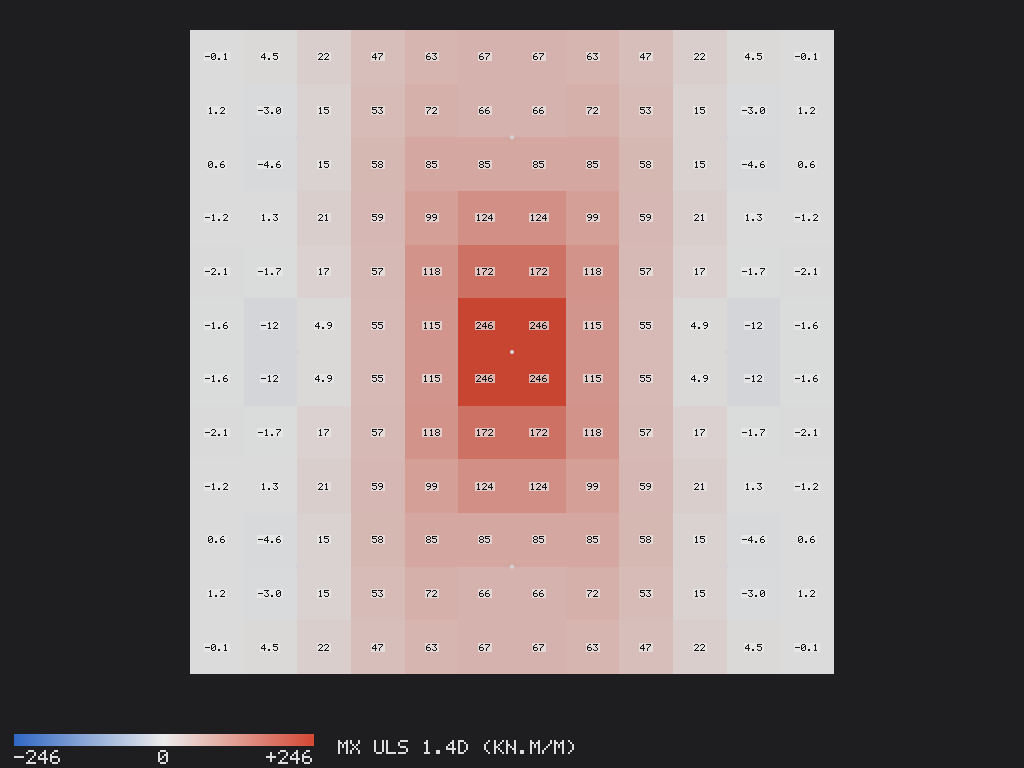
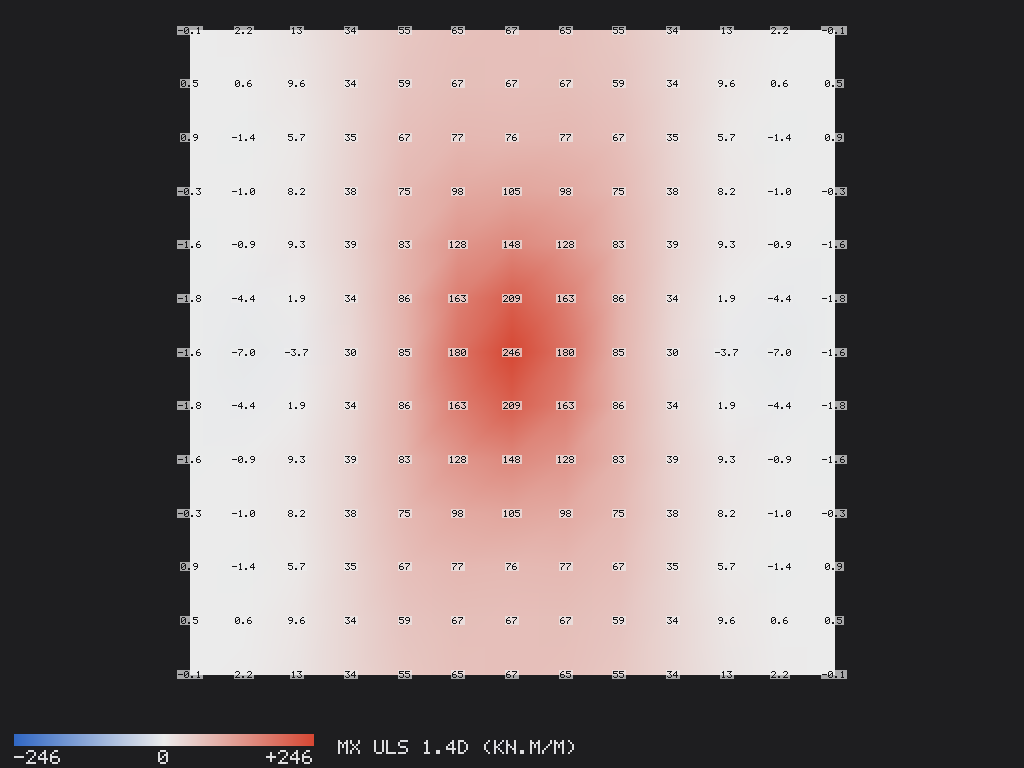
Plate results shaded between nodal values: each node the mean of its elements, Gouraud-shaded elements in the app view and the agent's pictures, values written at the nodes; the design keeps the element values

diff --git a/core/src/mcp.rs b/core/src/mcp.rs
@@ -60,7 +60,7 @@ fn tools() -> Vec<Value> {
     t.push(json!({"name": "import_file", "description": "Reads a structure from a file: format 'excel' (a Pondus workbook: replaces the model), 'dxf' (LINE, LWPOLYLINE and POLYLINE entities become members; a layer such as COLUMN_400x400, BEAM_300x600 or H300x150x6p5x9 gives kind and section, others take default_section; units from $INSUNITS or scale, e.g. 0.001 for mm; a 2D drawing is placed by view 'plan' with z or 'elevation_xz' with y; closed rectangles on SLAB layers become slabs) or 'ifc' (IFC2x3 / IFC4 from Revit or Aedifex: IfcColumn, IfcBeam, IfcMember and IfcSlab with extruded bodies, or the analytical IfcStructuralCurveMember; profiles to sections; GlobalId kept as bim_id; snap (default 0.75 m) moves member ends onto the axes they meet and beams onto their levels, 0 keeps the axes as drawn). replace true starts from an empty model (default for excel), otherwise the members merge into the current model. Supports and loads are not in DXF or IFC: add them after.", "inputSchema": {"type": "object", "properties": {"format": {"type": "string", "enum": ["excel", "dxf", "ifc"]}, "path": {"type": "string"}, "replace": {"type": "boolean"}, "scale": {"type": "number"}, "view": {"type": "string", "enum": ["3d", "plan", "elevation_xz", "elevation_yz"]}, "x": {"type": "number"}, "y": {"type": "number"}, "z": {"type": "number"}, "default_section": {"type": "string"}, "snap": {"type": "number"}}, "required": ["format", "path"]}}));
     t.push(json!({"name": "get_slab_results", "description": "The slabs' plate results (plate method: set_design slab_method 'plate' first) for a combination or case ('result', default the first ULS): per slab (all, or 'slabs') the largest positive and negative mx, my (kN·m/m, sagging +), mxy, qx, qy (kN/m) with where they occur, the Wood–Armer design moments (bottom and top, x and y) and the largest deflection; with elements true every element's centre and values.", "inputSchema": {"type": "object", "properties": {"result": {"type": "string"}, "slabs": {"type": "array", "items": {"type": "integer"}}, "elements": {"type": "boolean"}}}}));
     t.push(json!({"name": "design", "description": "Designs the structure: concrete beams (bars in thirds of the span, stirrups, deflection) and slabs (bars per direction) to ACI 318-19, steel members to AISC 360-16. resize: deepen failing concrete beams in 50 mm steps and thicken failing slabs; select: give every steel member (or group) the lightest passing H shape. Changed sections are analysed again until stable. Give 'members' / 'slabs' to design only those, or beams/slabs/steel false to skip a kind. slab_method chooses how slabs are analysed and designed (and stays set in the model).", "inputSchema": {"type": "object", "properties": {"members": {"type": "array", "items": {"type": "integer"}}, "slabs": {"type": "array", "items": {"type": "integer"}}, "beams": {"type": "boolean"}, "do_slabs": {"type": "boolean"}, "steel": {"type": "boolean"}, "resize": {"type": "boolean"}, "select": {"type": "boolean"}, "slab_method": {"type": "string", "enum": ["coefficients", "plate"], "description": "coefficients: ACI 318-63 Method 2 / ACI 6.5 with the load to the beams by the 45° lines; plate: the slabs meshed as plate (shell) elements analysed with the frame, bars from the element moments by Wood–Armer"}}}}));
-    t.push(json!({"name": "show_picture", "description": "Looks at the model: view '3d' (yaw/pitch degrees), 'plan' (z: one floor) or 'elevation' (y: one frame line); diagram none, moment (My), shear (Vz), axial, momentz (Mz), sheary (Vy), torsion, platemx / platemy / platemxy (slab plate moments) and plateqx / plateqy (slab shears), plate method, deflection, mode (a mode shape of the seismic analysis: mode 1, 2, ...) or utilisation (members and slabs coloured by their design ratio: green < 0.7, yellow < 0.9, orange < 1, red over); result: a combination or case name. The picture comes back to you and appears in the chat; give it a one-line caption.", "inputSchema": {"type": "object", "properties": {"view": {"type": "string", "enum": ["3d", "plan", "elevation"]}, "diagram": {"type": "string", "enum": ["none", "moment", "shear", "axial", "momentz", "sheary", "torsion", "platemx", "platemy", "platemxy", "plateqx", "plateqy", "deflection", "mode", "buckling", "utilisation"]}, "mode": {"type": "integer", "description": "with diagram 'mode' or 'buckling': which mode, 1 = the first"}, "result": {"type": "string"}, "z": {"type": "number"}, "y": {"type": "number"}, "yaw": {"type": "number"}, "pitch": {"type": "number"}, "highlight": {"type": "array", "items": {"type": "integer"}}, "caption": {"type": "string"}, "show_loads": {"type": "boolean"}, "values": {"type": "boolean", "description": "plate diagrams: write each element's value on it"}}}}));
+    t.push(json!({"name": "show_picture", "description": "Looks at the model: view '3d' (yaw/pitch degrees), 'plan' (z: one floor) or 'elevation' (y: one frame line); diagram none, moment (My), shear (Vz), axial, momentz (Mz), sheary (Vy), torsion, platemx / platemy / platemxy (slab plate moments) and plateqx / plateqy (slab shears), plate method, deflection, mode (a mode shape of the seismic analysis: mode 1, 2, ...) or utilisation (members and slabs coloured by their design ratio: green < 0.7, yellow < 0.9, orange < 1, red over); result: a combination or case name. The picture comes back to you and appears in the chat; give it a one-line caption.", "inputSchema": {"type": "object", "properties": {"view": {"type": "string", "enum": ["3d", "plan", "elevation"]}, "diagram": {"type": "string", "enum": ["none", "moment", "shear", "axial", "momentz", "sheary", "torsion", "platemx", "platemy", "platemxy", "plateqx", "plateqy", "deflection", "mode", "buckling", "utilisation"]}, "mode": {"type": "integer", "description": "with diagram 'mode' or 'buckling': which mode, 1 = the first"}, "result": {"type": "string"}, "z": {"type": "number"}, "y": {"type": "number"}, "yaw": {"type": "number"}, "pitch": {"type": "number"}, "highlight": {"type": "array", "items": {"type": "integer"}}, "caption": {"type": "string"}, "show_loads": {"type": "boolean"}, "values": {"type": "boolean", "description": "plate diagrams: write the nodal value at every node (the mean of the elements around it)"}}}}));
     t.push(json!({"name": "import_stabileo", "description": "Replaces the model with a Stabileo model (JSON file at 'path', or the object in 'model'), as Aedifex's export_stabileo writes it: collinear pieces of one beam are merged into one member, element bimId (or name) kept for export_bim.", "inputSchema": {"type": "object", "properties": {"path": {"type": "string"}, "model": {"type": "object"}}}}));
     t.push(json!({"name": "export_stabileo", "description": "Writes the model as a Stabileo model file (JSON) for the Stabileo editor.", "inputSchema": {"type": "object", "properties": {"path": {"type": "string"}}, "required": ["path"]}}));
     t.push(json!({"name": "export_bim", "description": "The design for the BIM model (designs first if needed): per member its bim_id, ends, the Aedifex family and type ('Concrete Rectangular Beam' / '300 x 600 mm', 'Steel I Beam (W)' / 'H 300x150x6.5x9') with the type parameters in m, the reinforcement and the ratio; per slab its thickness and bars. Returned as JSON and, with 'path', written to a file.", "inputSchema": {"type": "object", "properties": {"path": {"type": "string"}}}}));
@@ -558,7 +558,7 @@ impl Server {
                     lo = lo.min(v);
                     hi = hi.max(v);
                 }
-                scale = format!(" Colour scale of {label} in {}: symmetric, blue -{vmax:.1} to red +{vmax:.1} {units}; the values themselves run from {lo:.1} to {hi:.1} {units} (quote these, not the scale). values true writes each element's number.", r.name);
+                scale = format!(" Colour scale of {label} in {}: symmetric, blue -{vmax:.1} to red +{vmax:.1} {units}; the values themselves run from {lo:.1} to {hi:.1} {units} (quote these, not the scale). The picture shades the nodal values, each node the mean of the elements around it; values true writes them at the nodes. The design uses the element values.", r.name);
             }
         }
         self.pictures += 1;

diff --git a/core/src/scene.rs b/core/src/scene.rs
@@ -21,6 +21,30 @@ pub enum Prim {
     /// A value written at a point (the app draws it with its font, the agent's pictures with a
     /// bitmap font).
     Text { p: [f64; 3], text: String, color: Rgba },
+    /// A plate element with a colour at each corner, shaded between them (the nodal values of a
+    /// plate result, so the field reads as a smooth contour instead of one flat value per element).
+    Shaded { pts: [[f64; 3]; 4], colors: [Rgba; 4] },
+}
+
+/// The nodal values of a plate diagram: at every plate node the mean of the elements that share
+/// it (the usual stress recovery of a finite element post-processor). Keyed by the node's
+/// position to the mm. The element values themselves are what the design uses.
+pub fn plate_nodal(r: &CaseResult, diagram: Diagram, keep: impl Fn(&crate::slabfe::PlateResult) -> bool) -> std::collections::HashMap<(i64, i64, i64), f64> {
+    let mut sum: std::collections::HashMap<(i64, i64, i64), (f64, usize)> = std::collections::HashMap::new();
+    for p in r.plates.iter().filter(|p| keep(p)) {
+        let v = diagram.plate_value(p);
+        let (hx, hy) = (p.dx / 2.0, p.dy / 2.0);
+        for (x, y) in [(p.x - hx, p.y - hy), (p.x + hx, p.y - hy), (p.x + hx, p.y + hy), (p.x - hx, p.y + hy)] {
+            let e = sum.entry(key3(x, y, p.slab as f64)).or_insert((0.0, 0));
+            e.0 += v;
+            e.1 += 1;
+        }
+    }
+    sum.into_iter().map(|(k, (s, n))| (k, s / n as f64)).collect()
+}
+
+fn key3(x: f64, y: f64, s: f64) -> (i64, i64, i64) {
+    ((x * 1000.0).round() as i64, (y * 1000.0).round() as i64, s as i64)
 }
 
 #[derive(Clone, Copy, Debug, Default, PartialEq, Eq, Serialize, Deserialize)]
@@ -236,19 +260,26 @@ pub fn build(model: &Model, analysis: Option<&Analysis>, report: Option<&Report>
         }
     }
     let result = analysis.and_then(|a| pick_result(model, a, spec));
-    // slab plate results: each element coloured on the diverging scale, values if asked
+    // slab plate results: the nodal values (each node the mean of its elements) shaded across
+    // every element on the diverging scale, and written at the nodes if asked
     if let (Some(r), true) = (result.as_ref(), spec.diagram.is_plate()) {
         let vmax = plate_range(model, r, spec).max(1e-9);
-        for p in &r.plates {
+        let shown = |p: &crate::slabfe::PlateResult| model.slabs.iter().find(|s| s.id == p.slab).is_some_and(|s| !(spec.view == "plan" && spec.z.is_some_and(|z| (s.z - z).abs() > 0.05)));
+        let nodal = plate_nodal(r, spec.diagram, shown);
+        let mut written: std::collections::HashSet<(i64, i64, i64)> = std::collections::HashSet::new();
+        for p in r.plates.iter().filter(|p| shown(p)) {
             let Some(s) = model.slabs.iter().find(|s| s.id == p.slab) else { continue };
-            if spec.view == "plan" && spec.z.is_some_and(|z| (s.z - z).abs() > 0.05) {
-                continue;
-            }
-            let v = spec.diagram.plate_value(p);
             let (hx, hy) = (p.dx / 2.0, p.dy / 2.0);
-            out.push(Prim::Poly { pts: vec![[p.x - hx, p.y - hy, s.z], [p.x + hx, p.y - hy, s.z], [p.x + hx, p.y + hy, s.z], [p.x - hx, p.y + hy, s.z]], color: diverging(v / vmax) });
+            let corners = [[p.x - hx, p.y - hy, s.z], [p.x + hx, p.y - hy, s.z], [p.x + hx, p.y + hy, s.z], [p.x - hx, p.y + hy, s.z]];
+            let at = |c: &[f64; 3]| nodal.get(&key3(c[0], c[1], p.slab as f64)).copied().unwrap_or(spec.diagram.plate_value(p));
+            out.push(Prim::Shaded { pts: corners, colors: corners.map(|c| diverging(at(&c) / vmax)) });
             if spec.values {
-                out.push(Prim::Text { p: [p.x, p.y, s.z], text: if v.abs() >= 10.0 { format!("{v:.0}") } else { format!("{v:.1}") }, color: [20, 20, 22, 255] });
+                for c in &corners {
+                    if written.insert(key3(c[0], c[1], p.slab as f64)) {
+                        let v = at(c);
+                        out.push(Prim::Text { p: *c, text: if v.abs() >= 10.0 { format!("{v:.0}") } else { format!("{v:.1}") }, color: [20, 20, 22, 255] });
+                    }
+                }
             }
         }
     }
@@ -453,6 +484,7 @@ pub fn bounds(prims: &[Prim], cam: &Camera) -> Option<(f64, f64, f64, f64)> {
     let pts = prims.iter().flat_map(|p| match p {
         Prim::Line { a, b, .. } => vec![*a, *b],
         Prim::Poly { pts, .. } => pts.clone(),
+        Prim::Shaded { pts, .. } => pts.to_vec(),
         Prim::Dot { p, .. } | Prim::Text { p, .. } => vec![*p],
     });
     let mut b: Option<(f64, f64, f64, f64)> = None;

diff --git a/core/src/picture.rs b/core/src/picture.rs
@@ -83,6 +83,40 @@ impl Image {
     }
 }
 
+impl Image {
+    /// A triangle with a colour at each corner, interpolated across it (Gouraud shading).
+    fn tri_shaded(&mut self, p: [(f64, f64); 3], c: [Rgba; 3]) {
+        let det = (p[1].0 - p[0].0) * (p[2].1 - p[0].1) - (p[2].0 - p[0].0) * (p[1].1 - p[0].1);
+        if det.abs() < 1e-9 {
+            return;
+        }
+        let x0 = p.iter().map(|q| q.0).fold(f64::MAX, f64::min).floor().max(0.0) as i64;
+        let x1 = p.iter().map(|q| q.0).fold(f64::MIN, f64::max).ceil().min(self.w as f64 - 1.0) as i64;
+        let y0 = p.iter().map(|q| q.1).fold(f64::MAX, f64::min).floor().max(0.0) as i64;
+        let y1 = p.iter().map(|q| q.1).fold(f64::MIN, f64::max).ceil().min(self.h as f64 - 1.0) as i64;
+        // a little tolerance on the edges so neighbouring triangles leave no seam
+        let eps = 0.75 / det.abs().sqrt().max(1.0);
+        for y in y0..=y1 {
+            for x in x0..=x1 {
+                let (px, py) = (x as f64 + 0.5, y as f64 + 0.5);
+                let l1 = ((p[1].0 - p[0].0) * (py - p[0].1) - (px - p[0].0) * (p[1].1 - p[0].1)) / det;
+                let l2 = ((px - p[0].0) * (p[2].1 - p[0].1) - (p[2].0 - p[0].0) * (py - p[0].1)) / det;
+                let (w2, w1) = (l1, l2);
+                let w0 = 1.0 - w1 - w2;
+                if w0 < -eps || w1 < -eps || w2 < -eps {
+                    continue;
+                }
+                let (w0, w1, w2) = (w0.max(0.0), w1.max(0.0), w2.max(0.0));
+                let s = w0 + w1 + w2;
+                // opaque, so the pixels the two triangles of an element share show no seam
+                let mut col = [0, 1, 2, 3].map(|k| ((c[0][k] as f64 * w0 + c[1][k] as f64 * w1 + c[2][k] as f64 * w2) / s).round() as u8);
+                col[3] = 255;
+                self.blend(x, y, col, 1.0);
+            }
+        }
+    }
+}
+
 pub const BACKGROUND: Rgba = [30, 30, 32, 255];
 
 pub fn render(prims: &[Prim], cam: &Camera, w: usize, h: usize) -> Image {
@@ -103,7 +137,10 @@ pub fn render(prims: &[Prim], cam: &Camera, w: usize, h: usize) -> Image {
             let d = match p {
                 Prim::Line { a, b, .. } => (to(*a).1 + to(*b).1) / 2.0,
                 Prim::Poly { pts, .. } => pts.iter().map(|q| to(*q).1).sum::<f64>() / pts.len().max(1) as f64 + 1e-6,
-                Prim::Dot { p, .. } | Prim::Text { p, .. } => to(*p).1,
+                Prim::Shaded { pts, .. } => pts.iter().map(|q| to(*q).1).sum::<f64>() / 4.0 + 1e-6,
+                Prim::Dot { p, .. } => to(*p).1,
+                // values are written last, over the dots and lines at their point
+                Prim::Text { p, .. } => to(*p).1 - 1e-3,
             };
             (-d, i)
         })
@@ -114,6 +151,11 @@ pub fn render(prims: &[Prim], cam: &Camera, w: usize, h: usize) -> Image {
         match &prims[i] {
             Prim::Line { a, b, color, width, .. } => img.line(to(*a).0, to(*b).0, *color, *width * 1.3),
             Prim::Poly { pts, color } => img.poly(&pts.iter().map(|q| to(*q).0).collect::<Vec<_>>(), *color),
+            Prim::Shaded { pts, colors } => {
+                let q = pts.map(|p| to(p).0);
+                img.tri_shaded([q[0], q[1], q[2]], [colors[0], colors[1], colors[2]]);
+                img.tri_shaded([q[0], q[2], q[3]], [colors[0], colors[2], colors[3]]);
+            }
             Prim::Dot { p, color, r } => {
                 let c = to(*p).0;
                 img.line(c, c, *color, *r * 2.0);

diff --git a/app/src/view.rs b/app/src/view.rs
@@ -193,7 +193,9 @@ impl View {
                 let d = match p {
                     Prim::Line { a, b, .. } => (to(*a).1 + to(*b).1) / 2.0,
                     Prim::Poly { pts, .. } => pts.iter().map(|q| to(*q).1).sum::<f64>() / pts.len().max(1) as f64 + 1e-6,
-                    Prim::Dot { p, .. } | Prim::Text { p, .. } => to(*p).1,
+                    Prim::Shaded { pts, .. } => pts.iter().map(|q| to(*q).1).sum::<f64>() / 4.0 + 1e-6,
+                    Prim::Dot { p, .. } => to(*p).1,
+                    Prim::Text { p, .. } => to(*p).1 - 1e-3,
                 };
                 (-d, i)
             })
@@ -211,6 +213,15 @@ impl View {
                 Prim::Poly { pts, color } => {
                     let pts: Vec<Pos2> = pts.iter().map(|q| to(*q).0).collect();
                     painter.add(egui::Shape::convex_polygon(pts, c32(*color), Stroke::NONE));
+                }
+                Prim::Shaded { pts, colors } => {
+                    // a quad with a colour per corner: the GPU shades between them
+                    let mut mesh = egui::epaint::Mesh::default();
+                    for (q, c) in pts.iter().zip(colors) {
+                        mesh.vertices.push(egui::epaint::Vertex { pos: to(*q).0, uv: egui::epaint::WHITE_UV, color: c32(*c) });
+                    }
+                    mesh.indices.extend_from_slice(&[0, 1, 2, 0, 2, 3]);
+                    painter.add(egui::Shape::mesh(mesh));
                 }
                 Prim::Dot { p, color, r } => {
                     painter.circle_filled(to(*p).0, *r, c32(*color));
